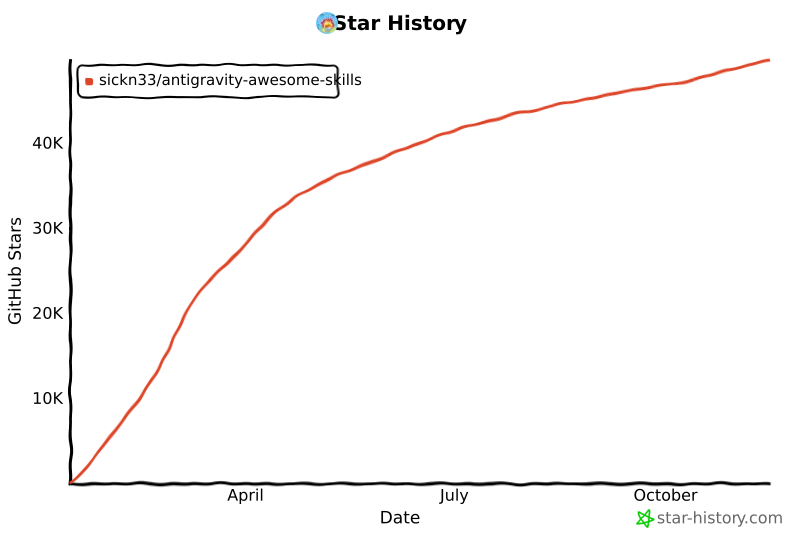
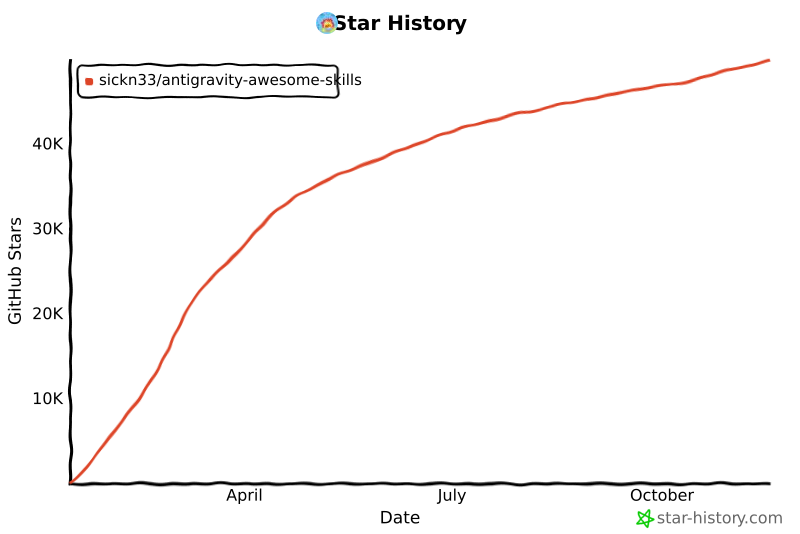
chore: update star history chart

diff --git a/README.md b/README.md
@@ -478,14 +478,14 @@ We officially thank the following contributors for their help in making this rep
 ## Star History
 
 <a href="https://www.star-history.com/#sickn33/antigravity-awesome-skills&type=date&legend=top-left">
- <img alt="Star History Chart" src="https://api.star-history.com/svg?repos=sickn33/antigravity-awesome-skills&type=date&legend=top-left&cache_bust=202611161418" />
+ <img alt="Star History Chart" src="https://api.star-history.com/svg?repos=sickn33/antigravity-awesome-skills&type=date&legend=top-left&cache_bust=202611171510" />
 </a>
 
 <a href="https://www.star-history.com/sickn33/antigravity-awesome-skills">
  <picture>
-   <source media="(prefers-color-scheme: dark)" srcset="https://api.star-history.com/chart?repos=sickn33/antigravity-awesome-skills&style=landscape1&theme=dark&cache_bust=202611161418" />
-   <source media="(prefers-color-scheme: light)" srcset="https://api.star-history.com/chart?repos=sickn33/antigravity-awesome-skills&style=landscape1&cache_bust=202611161418" />
-   <img alt="Star History Chart" src="https://api.star-history.com/chart?repos=sickn33/antigravity-awesome-skills&style=landscape1&cache_bust=202611161418" />
+   <source media="(prefers-color-scheme: dark)" srcset="https://api.star-history.com/chart?repos=sickn33/antigravity-awesome-skills&style=landscape1&theme=dark&cache_bust=202611171510" />
+   <source media="(prefers-color-scheme: light)" srcset="https://api.star-history.com/chart?repos=sickn33/antigravity-awesome-skills&style=landscape1&cache_bust=202611171510" />
+   <img alt="Star History Chart" src="https://api.star-history.com/chart?repos=sickn33/antigravity-awesome-skills&style=landscape1&cache_bust=202611171510" />
  </picture>
 </a>
 
